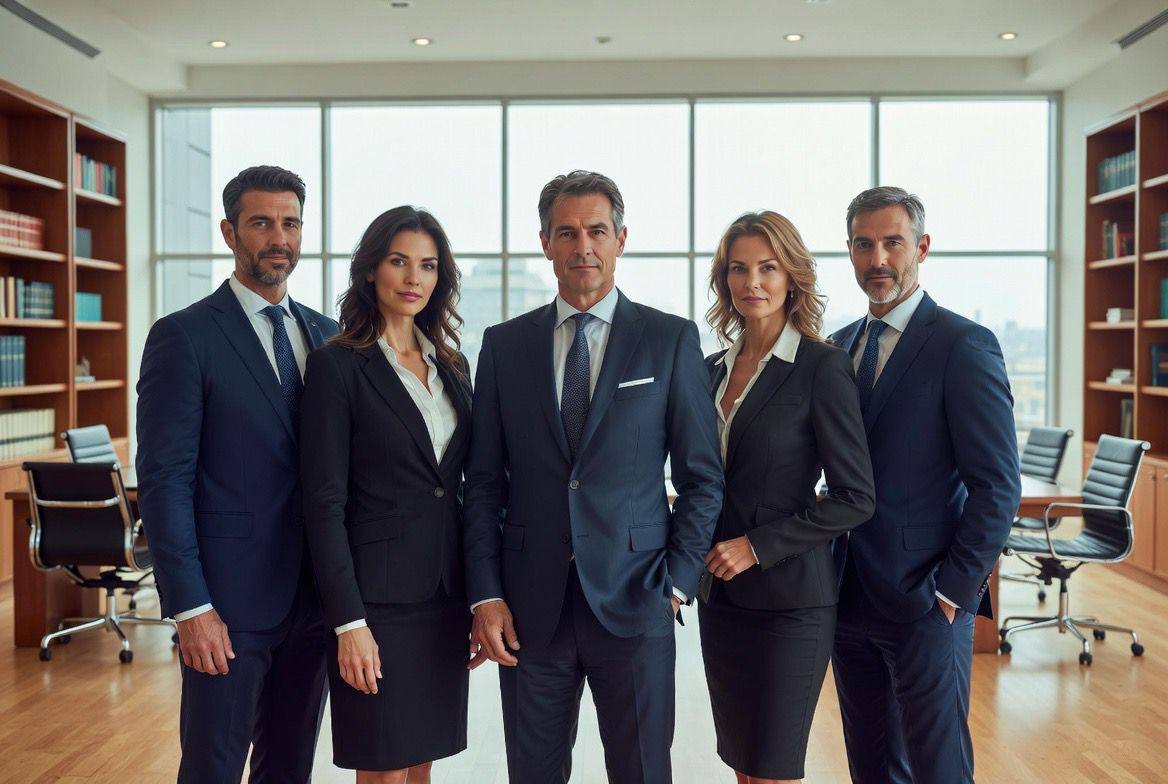
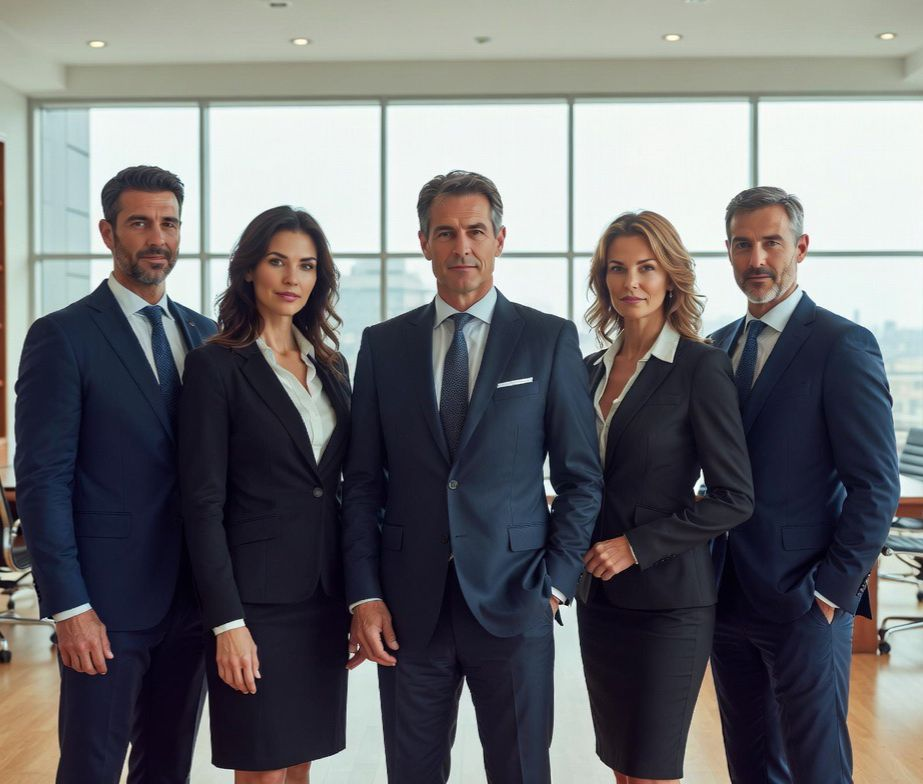
updates

diff --git a/index.html b/index.html
@@ -189,7 +189,7 @@
         /* --- אזור ראשי (Hero) עם תמונת רקע ופייד --- */
         .hero {
             background: linear-gradient(rgba(26, 43, 76, 0.72), rgba(26, 43, 76, 0.88)),
-                        url('law1.jpeg') center / cover no-repeat fixed;
+                        url('law1.jpeg') center / cover no-repeat;
             padding: 130px 10%;
             text-align: center;
             border-bottom: 5px solid var(--accent-color);
@@ -615,6 +615,12 @@
         .modal-body a {
             color: var(--accent-color);
             text-decoration: underline;
+        }
+
+        @media (min-width: 769px) {
+            .hero {
+                background-attachment: fixed;
+            }
         }
 
         /* --- התאמה למובייל --- */